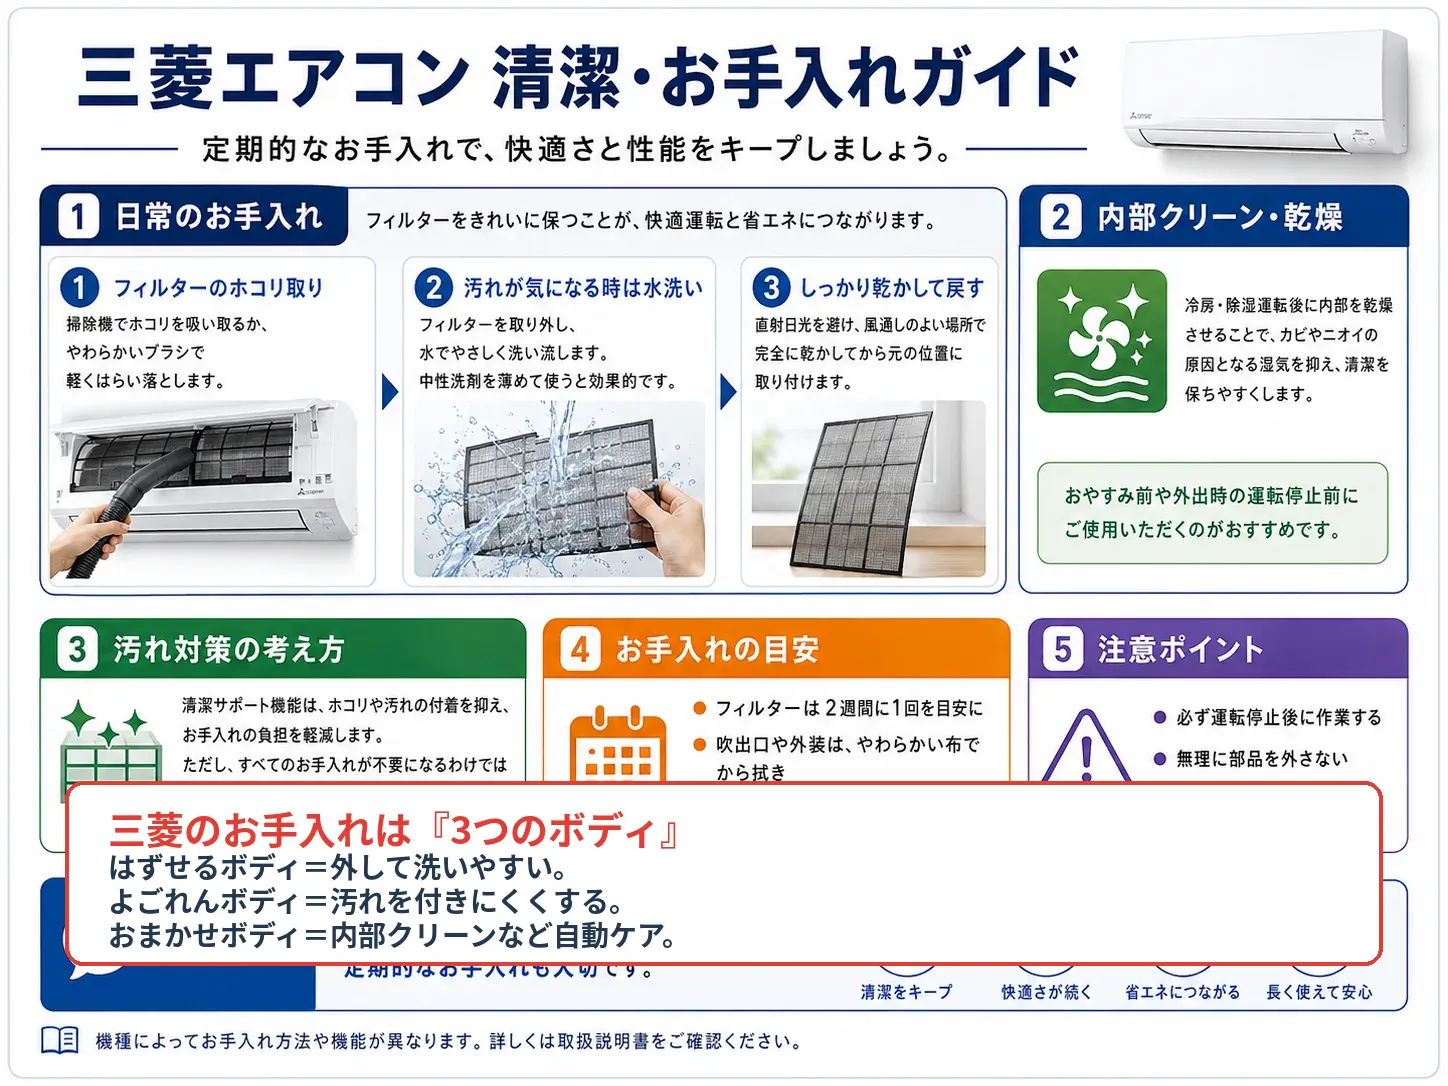
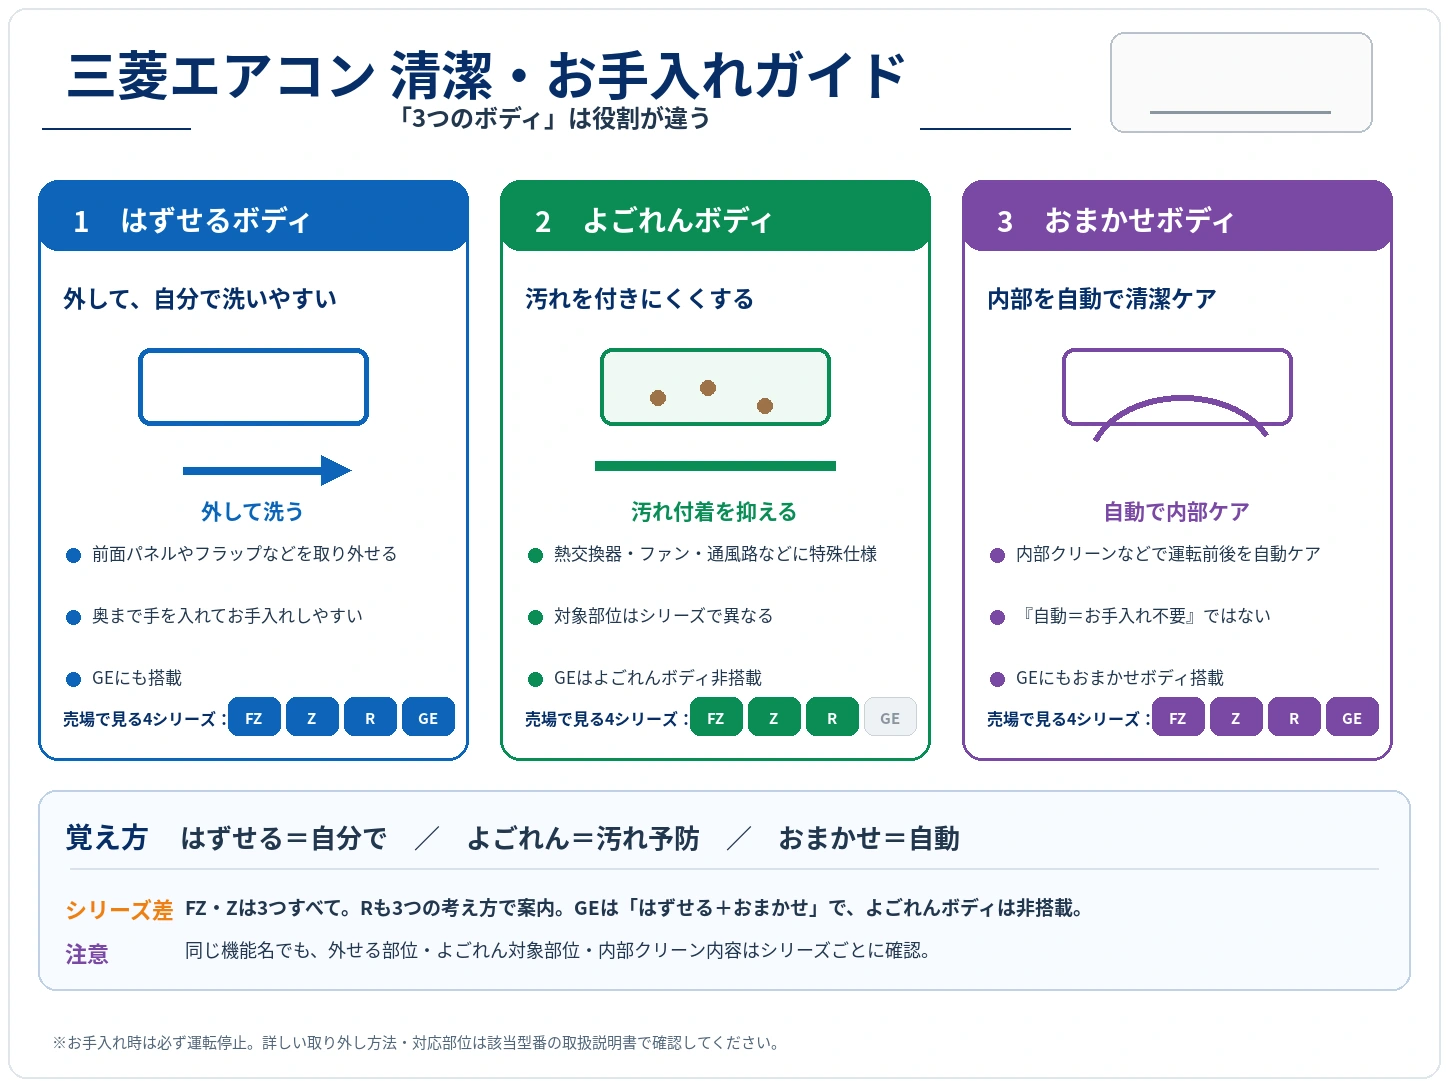
Add files via upload

diff --git a/index.html b/index.html
@@ -4,7 +4,7 @@
 <meta charset="utf-8">
 <meta name="viewport" content="width=device-width,initial-scale=1,viewport-fit=cover">
 <meta name="theme-color" content="#ffffff">
-<title>エアコン販買マスター Pro Ver.6.9.7 玉ちゃん指摘全反映版</title>
+<title>エアコン販買マスター Pro Ver.6.9.8 三菱指摘再修正版</title>
 <link rel="apple-touch-icon" sizes="180x180" href="apple-touch-icon.png?v=3890">
 <link rel="icon" type="image/png" sizes="32x32" href="favicon-32.png?v=3890">
 <style>
@@ -1294,7 +1294,7 @@ html,body{max-width:100%;overflow-x:hidden}
 
 
 <style id="v630-sharp-lux-final">
-/* Ver.6.9.7 玉ちゃん指摘全反映版：iPad/iPhone見切れ対策 */
+/* Ver.6.9.8 三菱指摘再修正版：iPad/iPhone見切れ対策 */
 #visualGrid .visual-card[data-cat="sharp"]{
   overflow:hidden!important;
   padding:10px!important;
@@ -1434,7 +1434,7 @@ html,body{max-width:100%;overflow-x:hidden}
 #general .maker-status-list span,#mitsubishi .maker-status-list span{min-width:42px;text-align:center}
 @media(max-width:700px){#general .hitachi-flow-row,#mitsubishi .hitachi-flow-row{grid-template-columns:1fr!important}#general .hitachi-flow-row i,#mitsubishi .hitachi-flow-row i{transform:rotate(90deg)}}
 
-/* ===== Ver6.9.7 Tamachan Feedback Fully Applied ===== */
+/* ===== Ver6.9.8 Tamachan Feedback Fully Applied ===== */
 .visual-grid{grid-template-columns:repeat(2,minmax(0,1fr));gap:18px}
 .visual-card{position:relative;border:1px solid #cfe0ef;border-radius:24px;background:linear-gradient(180deg,#fff 0%,#f8fbff 100%);overflow:hidden;box-shadow:0 14px 34px rgba(20,61,102,.10)}
 .visual-card::before{content:"";display:block;height:7px;background:linear-gradient(90deg,#0d6ee8,#61a9ff)}
@@ -1484,7 +1484,7 @@ html,body{max-width:100%;overflow-x:hidden}
     <div class="brand">
       <span class="brand-snow">❄</span>
       <span>エアコン販買マスター</span>
-      <small>Ver.6.9.7 玉ちゃん指摘全反映版</small>
+      <small>Ver.6.9.8 三菱指摘再修正版</small>
     </div>
     <button class="icon-button status-button" onclick="openMission()" aria-label="今日の目標">◎</button>
   </header>
@@ -3386,9 +3386,9 @@ const VISUAL_LIBRARY=[
  {category:"mitsubishi",file:"mitsubishi-hybrid-v692.webp?v=697",title:"ハイブリッド運転",desc:"冷房⇄爽風（送風）を自動切替。シリーズごとの設定方法の違いも明記。"},
  {category:"mitsubishi",file:"mitsubishi-two-point-v692.webp?v=697",title:"2か所同時空調",desc:"1台で2部屋ではなく、1つの部屋の左右2エリアへ左右フラップで吹き分け。"},
  {category:"mitsubishi",file:"mitsubishi-puremist-v692.webp?v=697",title:"三菱の空気清浄",desc:"FZ・Z・X＝ピュアミスト、R＝ヘルスエアー機能として分けて案内。"},
- {category:"mitsubishi",file:"mitsubishi-settings-v692.webp?v=697",title:"三菱 初期設定",desc:"最初から自動／自分で確認／アプリ接続の3分類。時刻設定は主役にしない。"},
- {category:"mitsubishi",file:"mitsubishi-clean-v692.webp?v=697",title:"三菱 清潔・お手入れ",desc:"はずせるボディ／よごれんボディ／おまかせボディの役割を整理。"},
- {category:"mitsubishi",file:"mitsubishi-series-v692.webp?v=697",title:"三菱シリーズ比較",desc:"FZ・Z・R・GEを中心に、畳数・除湿方式・設置性を比較。シリーズ比較は図解一覧の最後に配置。"},
+ {category:"mitsubishi",file:"mitsubishi-settings-v692.webp?v=698",title:"三菱 初期設定",desc:"最初から自動／自分で確認／アプリ接続の3分類。時刻設定は主役にしない。"},
+ {category:"mitsubishi",file:"mitsubishi-clean-v692.webp?v=698",title:"三菱 清潔・お手入れ",desc:"3つのボディを図解本体で比較。FZ・Z・R・GEの搭載差も確認。"},
+ {category:"mitsubishi",file:"mitsubishi-series-v692.webp?v=698",title:"三菱シリーズ比較",desc:"FZ・Z・R・GEの4シリーズを表そのもので比較。FZのプロペラファンも明記。"},
  {category:"general",file:"general-sarasara-v692.webp",title:"さらさら冷房",desc:"再熱除湿で冷えすぎを抑えながら、湿度をしっかりコントロール。"},
  {category:"general",file:"general-airflow-v692.webp",title:"ノクリア独自の気流制御",desc:"広いお部屋へムラを抑えて届ける気流の考え方を図解。"},
  {category:"general",file:"general-clean-v692.webp",title:"熱交換器・内部クリーン",desc:"熱交換器や内部の清潔維持をサポートする機能を整理。"},
@@ -3878,7 +3878,7 @@ function nextSharpQuiz(){
 const MITSUBISHI_PROGRESS_KEY="aircon_mitsubishi_master_v670";
 const GENERAL_PROGRESS_KEY="aircon_general_master_v671";
 const MITSUBISHI_SERIES={
- FZ:{title:"FZシリーズ",tag:"次世代プレミアム",summary:"14〜29畳。省エネ・センサー・2温度2気流を最優先する最上位。",suitable:["大きなリビング","体感差がある家庭","自動制御・省エネ重視"],features:["ムーブアイmirA.I.+","2温度2気流","プレミアム除湿","はずせる／よごれん／おまかせボディ"],talk:"『省エネと自動快適を最優先』ならFZから比較します。",caution:"大型室内機。設置寸法と能力ラインアップを確認します。"},
+ FZ:{title:"FZシリーズ",tag:"次世代プレミアム",summary:"14〜29畳。省エネ・センサー・2温度2気流を最優先する最上位。",suitable:["大きなリビング","体感差がある家庭","自動制御・省エネ重視"],features:["ムーブアイmirA.I.+","2つのプロペラファン『パーソナルツインフロー』","2温度2気流","プレミアム除湿","はずせる／よごれん／おまかせボディ"],talk:"『省エネと自動快適を最優先』ならFZから比較します。",caution:"大型室内機。設置寸法と能力ラインアップを確認します。"},
  Z:{title:"Zシリーズ",tag:"プレミアム",summary:"6〜29畳。快適・清潔・省エネに加え、再熱除湿を使うさらっと除湿冷房が強み。",suitable:["リビングで長時間使用","寒くなりにくい除湿を重視","清潔機能も重視"],features:["ムーブアイmirA.I.+","2か所同時空調","さらっと除湿冷房（再熱除湿）","ピュアミスト・外せるボディ"],talk:"『冷えすぎを抑えながら除湿したい』ならZの再熱除湿を比較します。",caution:"FZとの違いは省エネ・気流・除湿方式で比較します。"},
  R:{title:"Rシリーズ",tag:"高さ255mm",summary:"6〜23畳。高さ制約に強く、ムーブアイ・スマート除湿・ヘルスエアー機能を搭載。",suitable:["窓上・梁下","高さ制約が厳しい","空気清浄も欲しい"],features:["高さ255mm","ムーブアイ","スマート除湿","ヘルスエアー機能"],talk:"『高さが厳しくても快適機能を残したい』ならRです。",caution:"本体高さだけで断定せず、据付必要寸法・配管方向を確認します。"},
  GE:{title:"GEシリーズ",tag:"スタンダード",summary:"6〜18畳。基本機能と価格を重視する標準シリーズ。",suitable:["寝室・個室","基本機能重視","価格を抑えたい"],features:["フロアアイ","選べる3モード除湿","はずせるボディ","基本の冷暖房"],talk:"『基本機能をしっかり、価格も抑えたい』ならGEです。",caution:"上位シリーズのセンサー・空気清浄・再熱除湿が必要か確認します。"}
